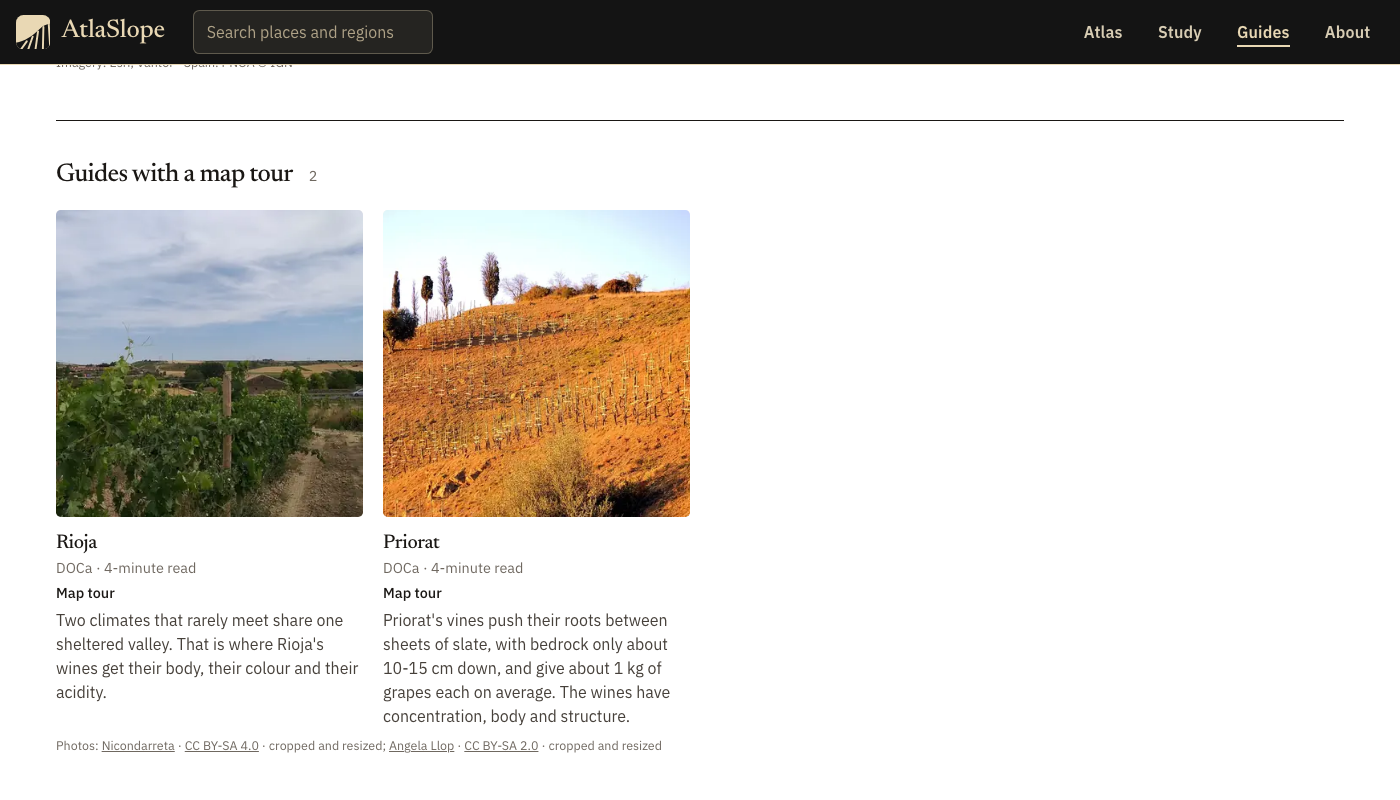
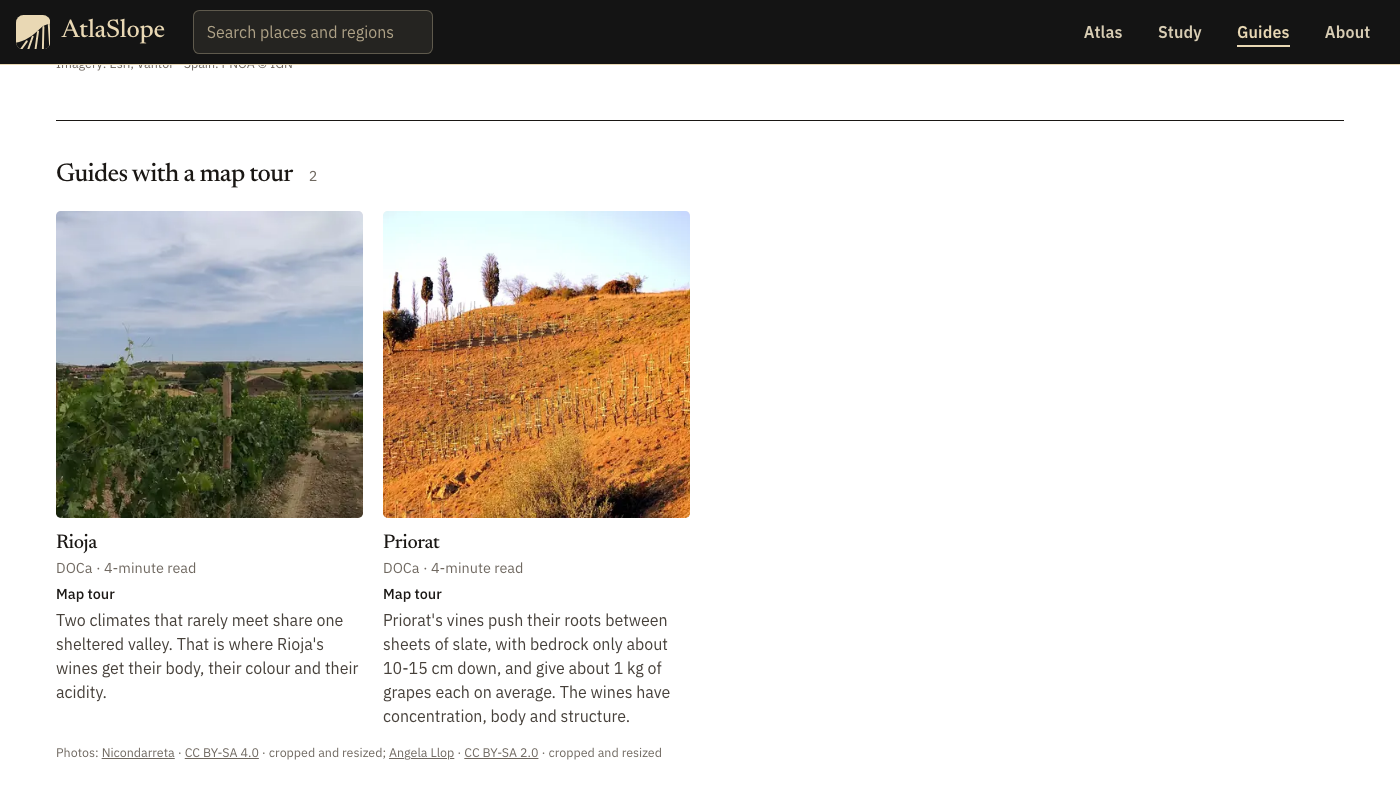
Tour in guide: phone overflow, opaque chip bar, legend clear of zoom, full-width band, credit spacing, shots (design 1,3,4,6,8)

diff --git a/src/story/story.css b/src/story/story.css
@@ -35,7 +35,7 @@
   .pg-tour-pic{height:160px;min-height:160px}
   .pg.tour .pg-body{flex-direction:column;align-items:stretch}
   .pg.tour .pg-listing{padding-left:1rem;padding-right:1rem}
-  .pg-tourmap{order:0;flex:0 0 240px;height:240px;z-index:16}
+  .pg-tourmap{order:-1;flex:0 0 240px;height:240px;z-index:16}
   .pg.tour .pg-jump{top:calc(var(--bar) + 241px)}
   .pg-tourcap{flex-wrap:wrap;gap:.1rem .6rem;padding:.4rem .75rem}
   .pg-tourcap b{font-size:.95rem}
@@ -73,3 +73,15 @@
   .story-legend span{margin-left:0;margin-right:.55rem}
 }
 @media (max-width:61rem){.story-credit{font-size:.6rem;white-space:nowrap;overflow:hidden;padding:.3rem .5rem}.story-credit .long{display:none}.story-credit .short{display:inline}}
+
+/* Phone and tablet strip: the legend wraps and stops short of the zoom control (top right) instead of running under it. */
+@media (max-width:61rem){
+  .pg-tourmap .story-legend{right:3.6rem;white-space:normal;overflow:visible}
+  .pg-tourmap .story-legend span{display:inline-block}
+}
+/* The guide column never grows past the screen (the page's auto side margins let it size to its widest child), and the chip bar sits opaque
+   above the text with every heading scrolled clear of it. */
+.pg.tour .pg-listing{width:100%;margin:0}
+.pg.tour .pg-jump{background:var(--paper);-webkit-backdrop-filter:none;backdrop-filter:none;mask-image:none;-webkit-mask-image:none}
+.pg.tour .pg-listing :is(section,h2,h3,[id]){scroll-margin-top:calc(var(--bar) + 4.5rem)}
+@media (max-width:47.5em){.pg.tour .pg-listing :is(section,h2,h3,[id]){scroll-margin-top:calc(var(--bar) + 241px + 4rem)}}

diff --git a/src/pages/PlacePage.tsx b/src/pages/PlacePage.tsx
@@ -395,11 +395,14 @@ export function PlacePage({ tree, go, place, at, tour = false, onTest }: Props) 
         <div className="pg-cols">
           <main>
             {spine && (
+              <>
               <header className="pg-spine">
                 <h2 id="why-h" tabIndex={-1}>{guide?.title ?? t.whyTitle(place.name)}</h2>
                 {guide ? <><p className="pg-lede">{guide.lede.text}</p>{src(guide.lede.cite)}</> : sheet && <><p className="pg-lede">{sheet.why.text}</p>{src(sheet.why.cite)}</>}
-                {guide && stops !== undefined && !tour && <TourBand id={place.id} minutes={guide.minutes} stops={stops} go={go} />}
               </header>
+              {/* Outside the header, which is a reading measure: the band spans the whole guide column (mock b3). */}
+              {guide && stops !== undefined && !tour && <TourBand id={place.id} minutes={guide.minutes} stops={stops} go={go} />}
+              </>
             )}
 
             {beats.map((b) => (

diff --git a/src/styles/pages.css b/src/styles/pages.css
@@ -54,7 +54,7 @@
 .pg-namecover span{font-size:clamp(3rem,8vw,5.5rem)}
 
 /* jump bar */
-.pg-jump{position:sticky;top:calc(var(--bar) + 1px);z-index:15;display:flex;gap:.2rem;overflow-x:auto;margin:1.4rem 0 0;padding:0;background:color-mix(in srgb,var(--paper) 94%,transparent);backdrop-filter:blur(10px);-webkit-backdrop-filter:blur(10px);border-bottom:1px solid var(--line)}
+.pg-jump{position:sticky;top:calc(var(--bar) + 1px);z-index:15;display:flex;gap:.2rem;overflow-x:auto;margin:1.4rem 0 0;padding:0;background:var(--paper);border-bottom:1px solid var(--line)}
 .pg-jump a{flex:none;display:inline-flex;align-items:center;min-height:3rem;padding:0 .8rem;text-decoration:none;font-size:.9rem;font-weight:500;color:var(--ink2);border-bottom:2px solid transparent}
 .pg-jump a:first-child{padding-left:0}
 .pg-jump a:hover{color:var(--ink)}

diff --git a/tests/ui/story.spec.ts b/tests/ui/story.spec.ts
@@ -30,6 +30,8 @@ test('opening the map keeps the guide beside it; scrolling to the soils makes th
   await page.locator('a.story-open').click();
   await expect(page).toHaveURL(/#place=rioja&page&story(&view=.*)?$/);
   await expect(mapCol(page)).toBeVisible();
+  // Opening from the band leaves the reader where the band was, so the step is the chapter in view; at the lede it is the opening view.
+  await page.locator('.pg').evaluate((el) => { el.scrollTop = 0; });
   await expect(mapCol(page)).toHaveAttribute('data-step', 'intro');
   await expect(page.locator('.pg-climate')).toBeVisible(); // the guide's own charts stay
   await expect(page.locator('#taste')).toBeAttached();
